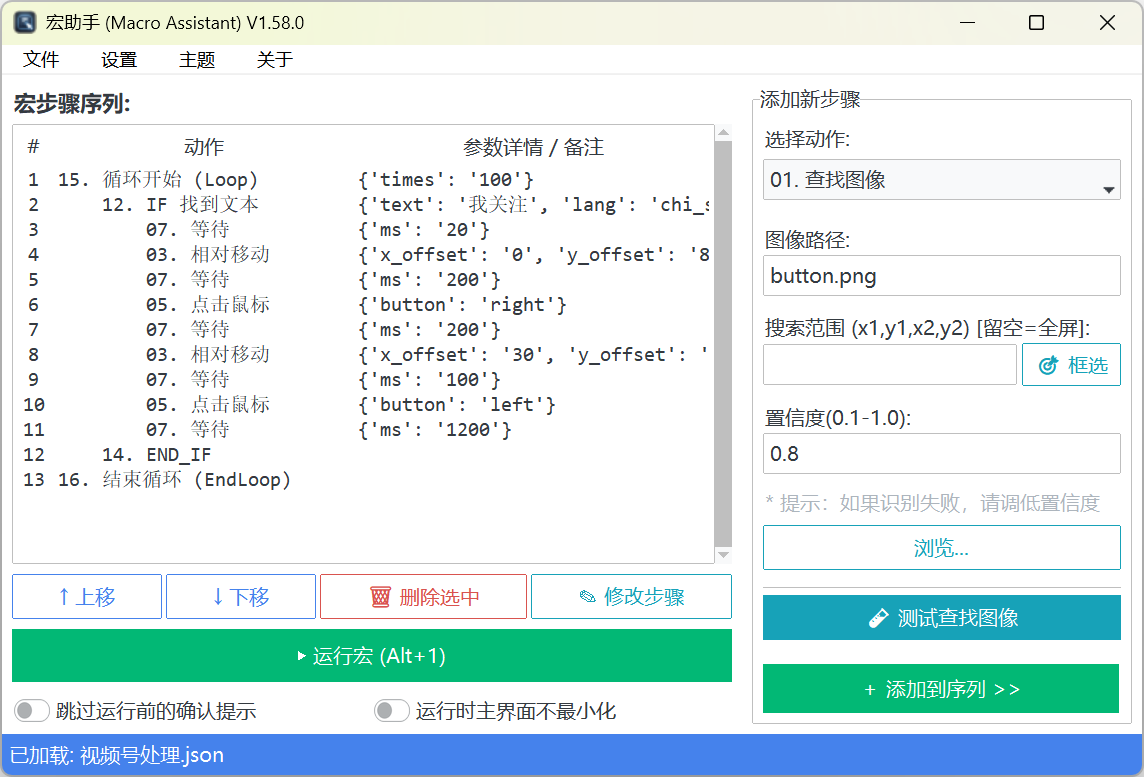
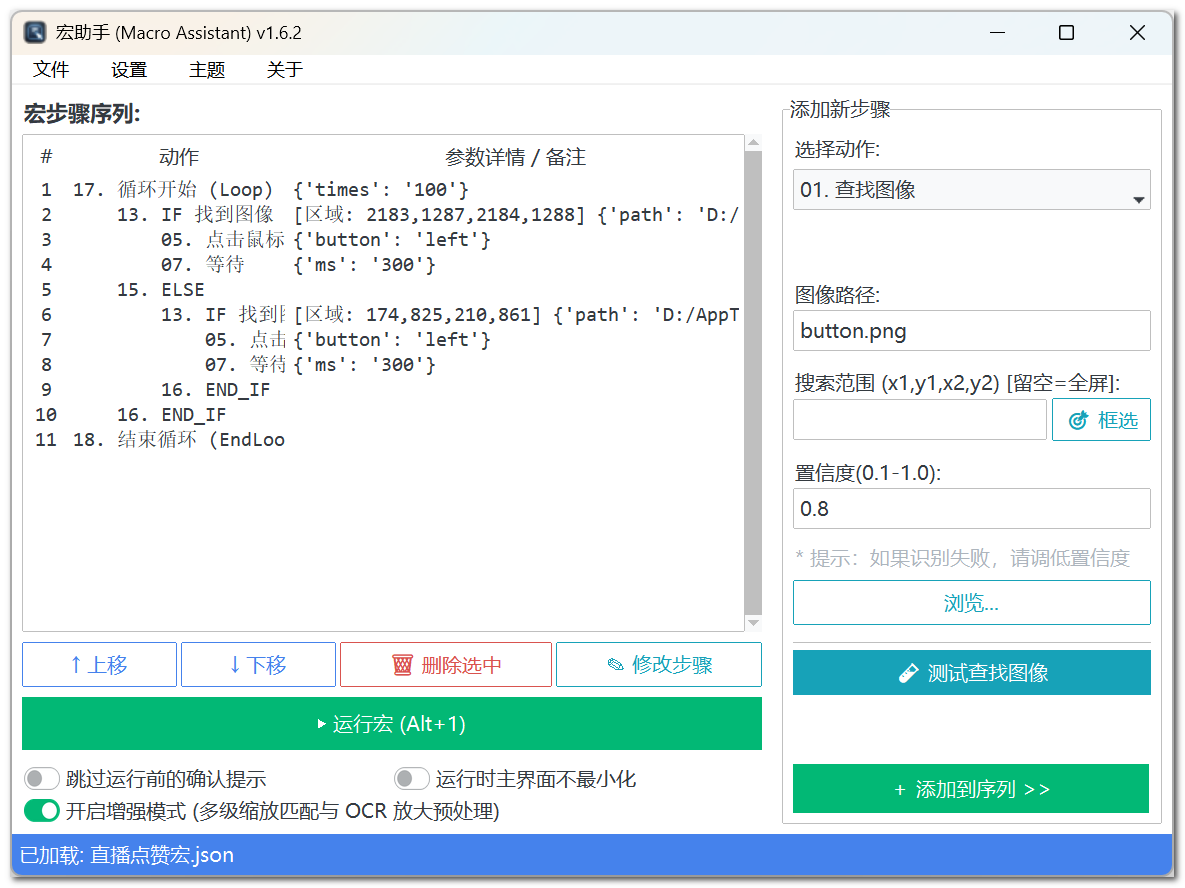
更新至1.6.2

Changed region(s): [[0.0, 0.0, 1.0, 1.0], [0.5201, 0.4324, 0.5813, 0.4633]]

diff --git a/README.md b/README.md
@@ -53,13 +53,16 @@
 | **07** | **等待** | 暂停宏，等待固定时间 (毫秒)。 |
 | **08** | **输入文本** | 模拟键盘输入（通过剪贴板粘贴实现，支持中文）。 |
 | **09** | **按下按键** | 模拟按下单个按键或组合键 (如 `enter`, `ctrl+v`)。 |
-| **10** | **激活窗口 (按标题)** | 查找标题包含指定文本的窗口，并将其激活到最前端。 |
-| **11** | **IF 找到图像** | (流程控制) 如果找到该图像，则继续执行 `IF` 块。 |
-| **12** | **IF 找到文本** | (流程控制) 如果找到该文本，则继续执行 `IF` 块。 |
-| **13** | **ELSE** | (流程控制) 必须与 `IF` 配对使用。 |
-| **14** | **END_IF** | (流程控制) 标记 `IF` 块的结束。 |
-| **15** | **循环开始 (Loop)** | 指定循环体执行的次数。 |
-| **16** | **结束循环 (EndLoop)**| 标记循环体的结束。 |
+| **10** | **AI 自然语言指令** | 利用 AI 大模型来分析执行屏幕内容。 |
+| **11** | **激活窗口 (按标题)** | 查找标题包含指定文本的窗口，并将其激活到最前端。 |
+| **12** | **备注** | 增加一些备注，来快速方便的定位或标记功能。 |
+| **13** | **IF 找到图像** | (流程控制) 如果找到该图像，则继续执行 `IF` 块。 |
+| **14** | **IF 找到文本** | (流程控制) 如果找到该文本，则继续执行 `IF` 块。 |
+| **15** | **ELSE** | (流程控制) 必须与 `IF` 配对使用。 |
+| **16** | **END_IF** | (流程控制) 标记 `IF` 块的结束。  |
+| **17** | **结束循环 (EndLoop)**| 标记循环体的结束。  |
+| **18** | **结束循环 (EndLoop)**| 标记循环体的结束。  |
+
 
 ## --## 🛠️ 安装与依赖
 